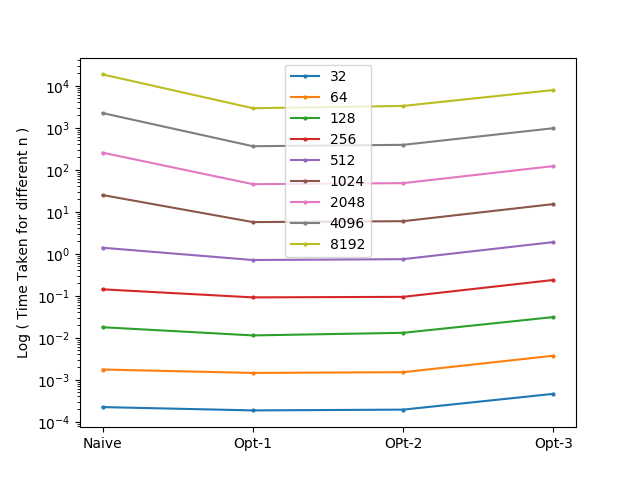
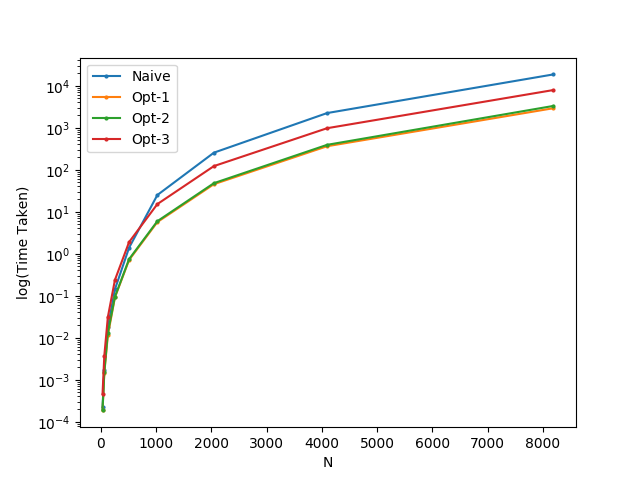
Added more graphs

diff --git a/assign1/plot.py b/assign1/plot.py
@@ -6,14 +6,27 @@ Opt1Results = [0.000186, 0.001451, 0.011352, 0.091328, 0.708196, 5.667843, 45.26
 Opt2Results = [0.000194, 0.001511, 0.013084, 0.093948, 0.742125, 5.950698, 47.896635, 391.200087, 3304.406717]
 Opt3Results = [0.000461, 0.003732, 0.031031, 0.237299, 1.891817, 15.196035, 122.090300, 973.819655, 7894.428863]
 
-x = [1,2,3,4]
-my_xticks = ['Naive', 'Opt-1', 'OPt-2', 'Opt-3']
-plt.xticks(x, my_xticks)
-for ct, size in enumerate(Nsizes):
-	y = [NaiveResults[ct], Opt1Results[ct], Opt2Results[ct], Opt3Results[ct]]
-	plt.plot(x,y,label = size, marker='o', markersize=2)
+plt.plot(Nsizes, NaiveResults, label = 'Naive', marker='o', markersize = 2)
+plt.plot(Nsizes, Opt1Results, label = 'Opt-1', marker='o', markersize = 2)
+plt.plot(Nsizes, Opt2Results, label = 'Opt-2', marker='o', markersize = 2)
+plt.plot(Nsizes, Opt3Results, label = 'Opt-3', marker='o', markersize = 2)
 plt.yscale('log')
-plt.ylabel('Log ( Time Taken for different n )')
+plt.xscale('log')
+plt.xlabel('log(n)')
+# plt.xlabel('N')
+plt.ylabel('log(Time Taken)')
 plt.legend()
+plt.savefig('Log(Time)-vs-Log(N)-Graph')
 # plt.show()
-plt.savefig('Log(Time)-vs-N-Graph')
+
+# x = [1,2,3,4]
+# my_xticks = ['Naive', 'Opt-1', 'OPt-2', 'Opt-3']
+# plt.xticks(x, my_xticks)
+# for ct, size in enumerate(Nsizes):
+# 	y = [NaiveResults[ct], Opt1Results[ct], Opt2Results[ct], Opt3Results[ct]]
+# 	plt.plot(x,y,label = size, marker='o', markersize=2)
+# plt.yscale('log')
+# plt.ylabel('Log ( Time Taken for different n )')
+# plt.legend()
+# plt.show()
+# plt.savefig('Log(Time)-vs-N-Graph')
